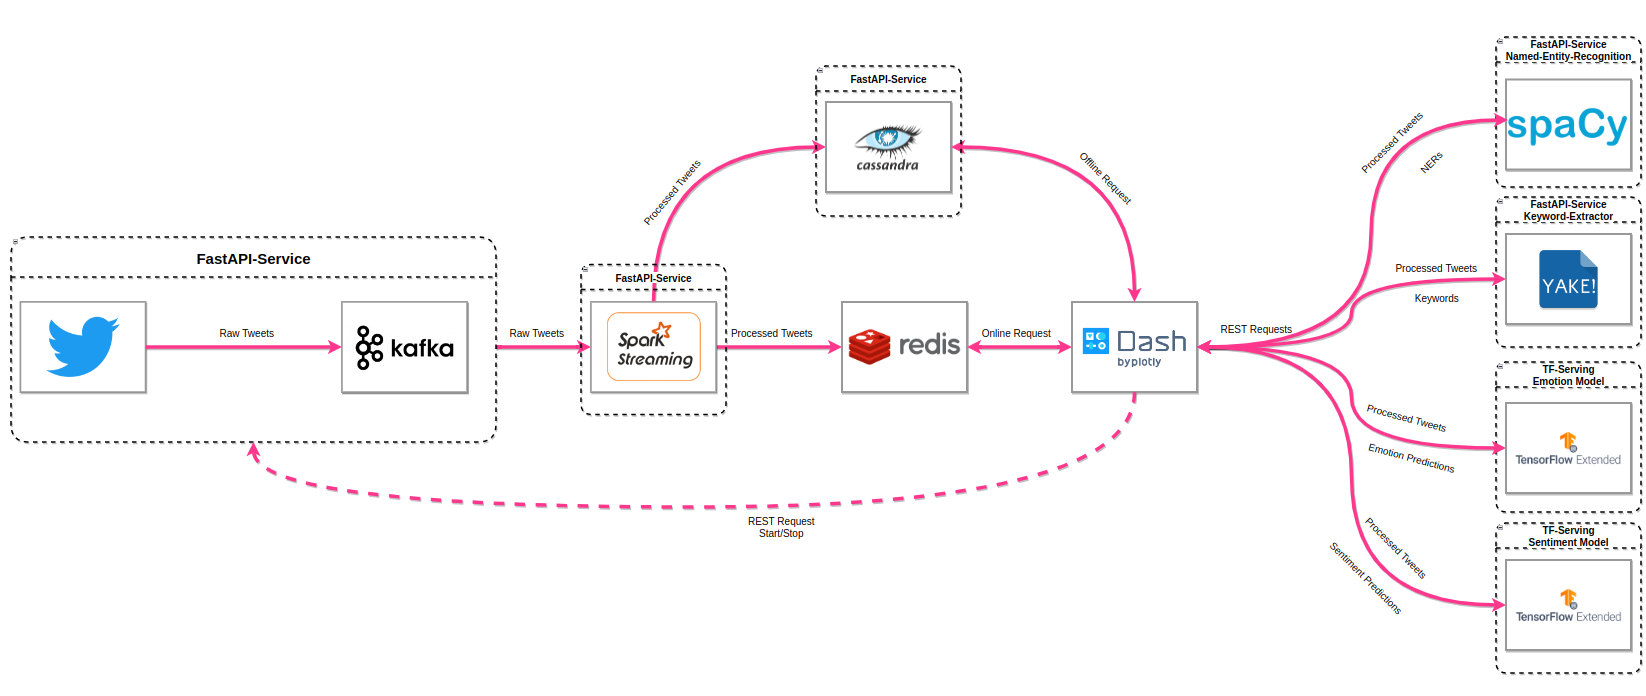
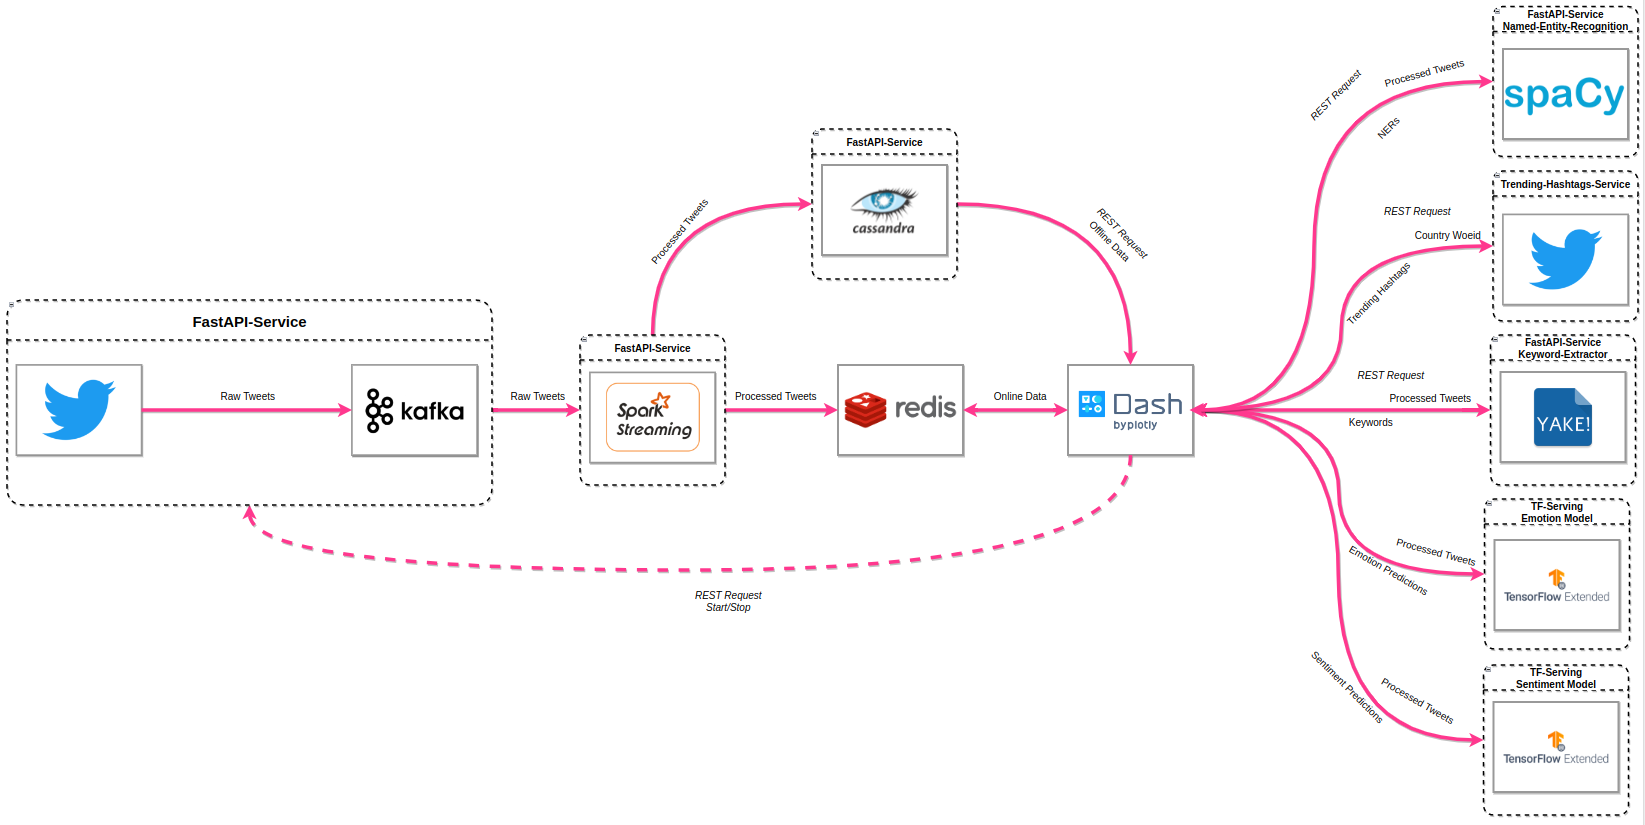
updating readme

diff --git a/README.md b/README.md
@@ -1,5 +1,10 @@
 # Streaming Microservice Architecture
 
+## What is it?
+It is a real-time tweets text analysis dashboard.
+
+## Idea
+To be able to keep up with trending hashtags and topics, a dashboard is used to get keywords, entities, tweets' sentiment, tweets' emotions, and frequent words of a given hashtag/topic.
 ## Architecture
 
 <img src="assets/arhitecture.png" />
@@ -9,9 +14,21 @@ Implemented Lambda Architecture to handle the streaming of twitter's data ingest
 
 **Microservices:**
 
-- TwitterHandler is a python package (<a href="">TwitterHandler-pypi</a>) it handles twitter' data stream and ingest it into Kafka. Accessible via an API. <a href=""> TwitterHandler-github</a>
+- TwitterHandler is a python package (<a href="">TwitterHandler-pypi</a>) it handles twitter' data stream from twitter api v2 and ingest it into Kafka. Accessible via an API and deployed in a docker container. <a href=""> TwitterHandler-github</a>
 
-- SparkStream is a python package (<a href="">SparkStream-pypi</a>). A simple spark streaming handler; it listens to a kafka topic, process the data, and store it into cassandra and redis. Accessible via an API. <a href=""> SparkStream-github</a>
+- SparkStream is a python package (<a href="">SparkStream-pypi</a>). A simple spark streaming handler; it listens to a kafka topic, process the data, and store it into cassandra and redis. Accessible via an API and deployed in a docker container. <a href=""> SparkStream-github</a>
+
+ - Named-Entity-Recognition is a service for extracting NERs from text by spacy. Accessible via an API and deployed in a docker container. <a href=""> NER-github</a>
+
+ - Keyword-Extraction is a service for extracting keywords from text by yake. Accessible via an API and deployed in a docker container. <a href=""> Keyword-github</a>
+
+ - Sentiment-Model is a service for predicting tweet's sentiment. Developed by tensorflow extended and deployed with tensorflow-serving. <a href=""> Sentiment-github</a>
+
+ - Emotion-Model is a service for predicting tweet's emotions. Developed by tensorflow extended and deployed with tensorflow-serving. <a href=""> Emotion-github</a>
+
+ - Trending-Hashtags is a service for getting trending hashtags in a given country from twitter api v1. Accessible via an API and deployed in a docker container. <a href=""> Trending-github</a>
+
+
 
 <br>
 
@@ -32,4 +49,4 @@ Implemented Lambda Architecture to handle the streaming of twitter's data ingest
 **Data:**
 <br>
 - Trending hashtags are from the trend places endpoint of the Twitter API v1.
-- Twitter's streaming data are from the filtered stream endpoint of the Twitter API v2. 
+- Twitter's streaming data are from the filtered stream endpoint of the Twitter API v2.
